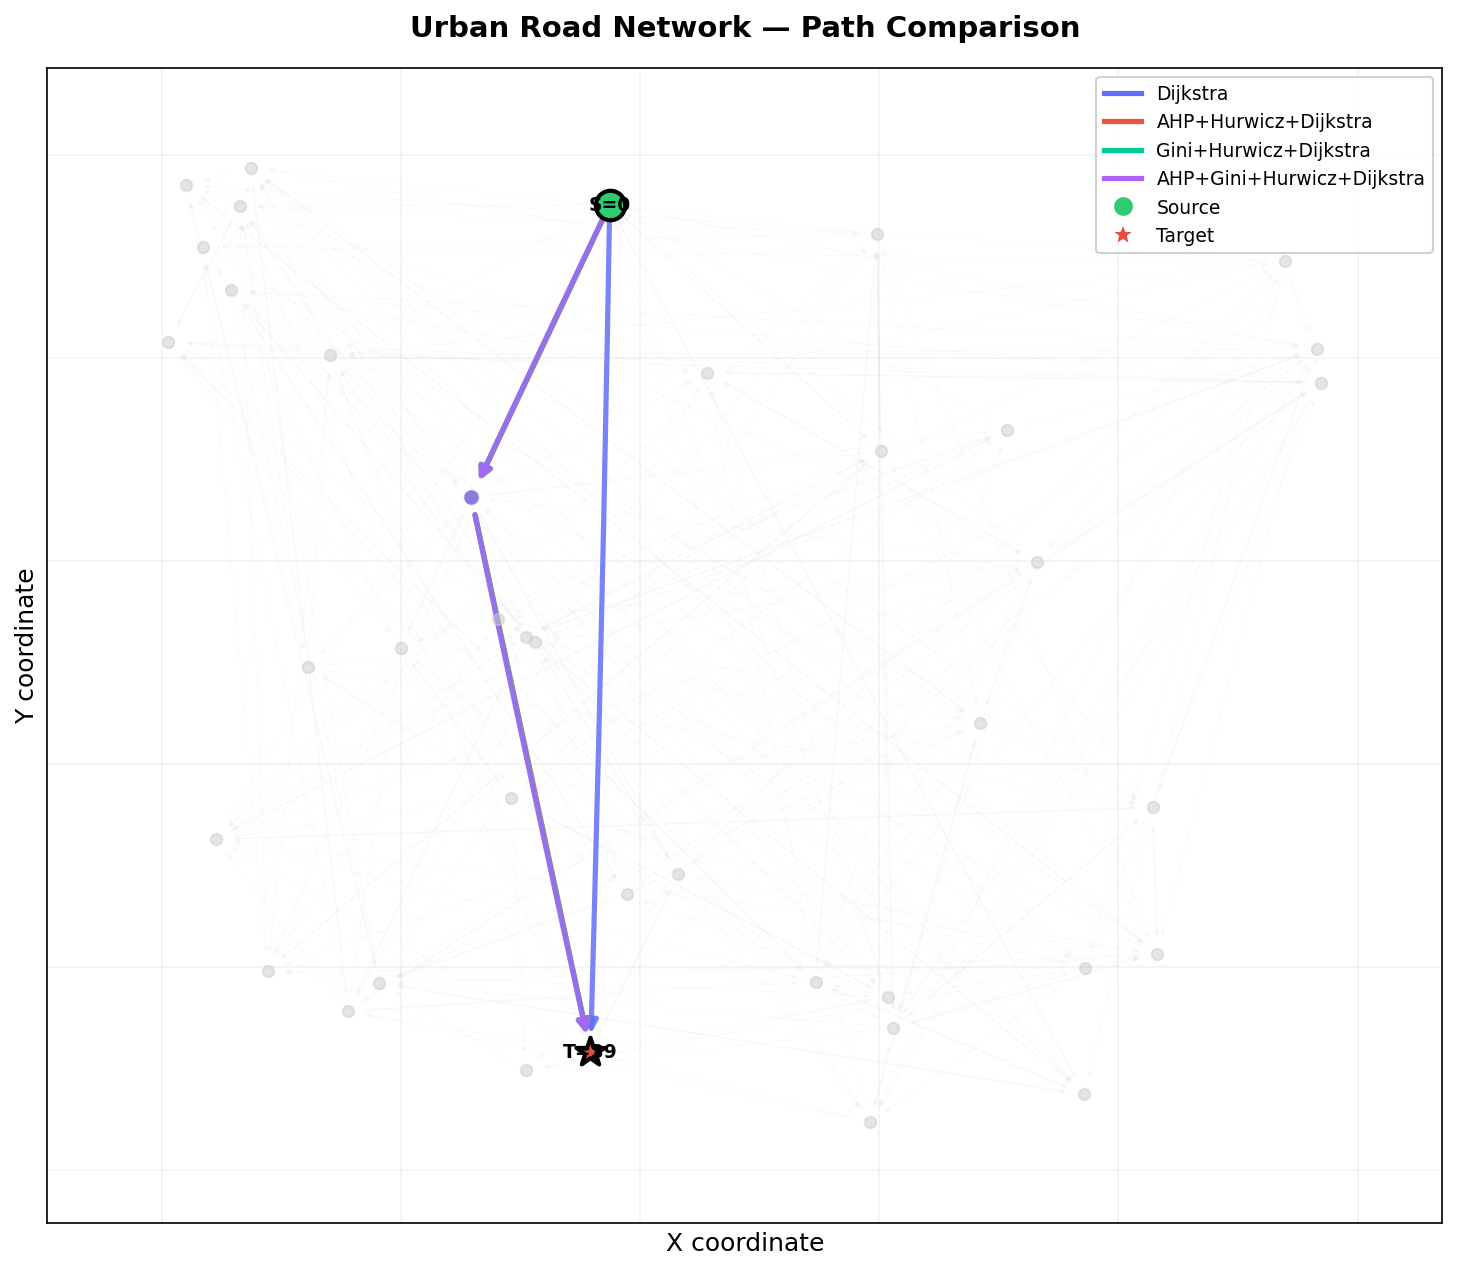
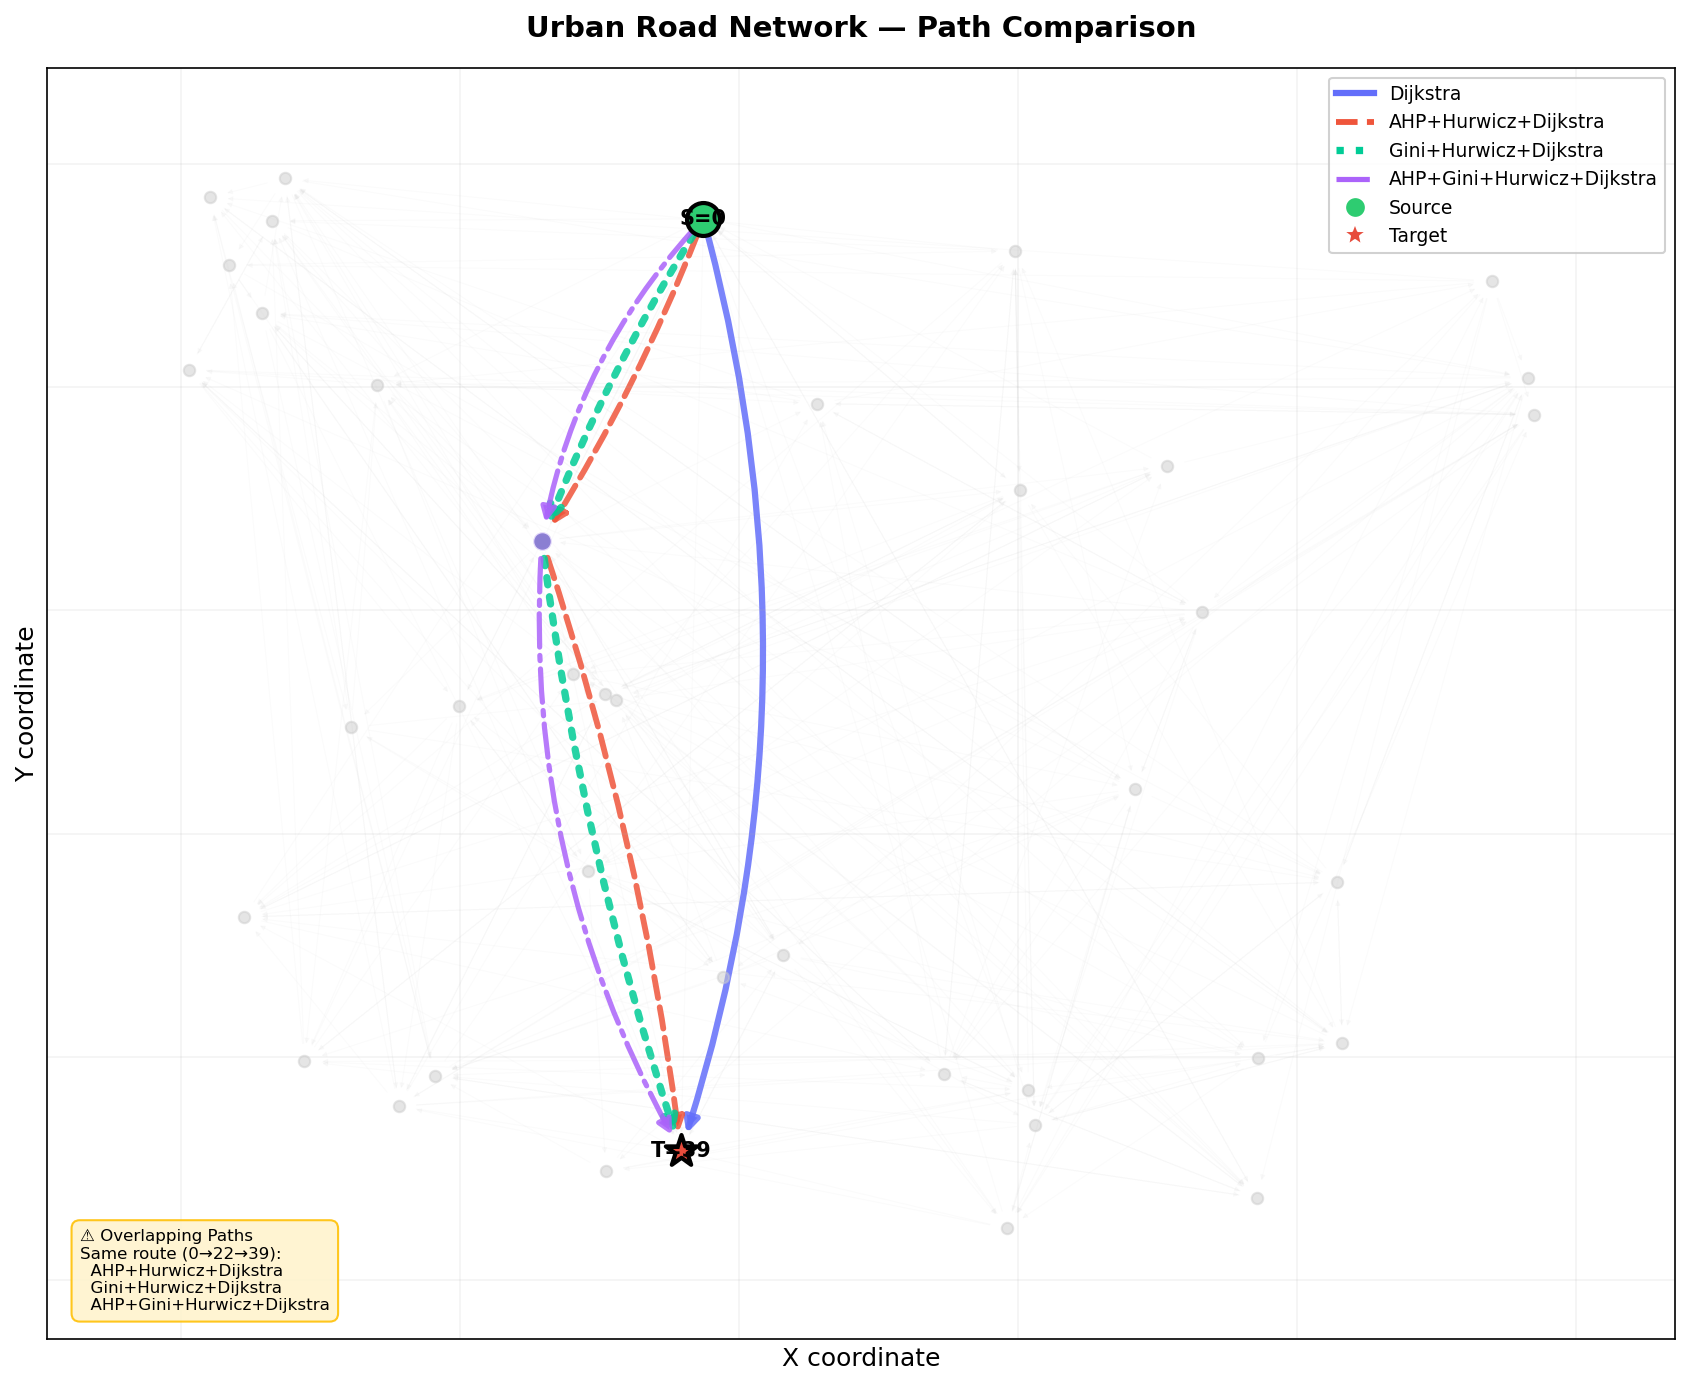
update

Changed region(s): [[0.0309, 0.0, 1.0, 1.0], [0.3089, 0.1228, 0.4633, 0.8598], [0.0, 0.4299, 0.0309, 0.5835]]

diff --git a/visualizations.py b/visualizations.py
@@ -69,9 +69,11 @@ def plot_graph_with_paths(
 ):
     """
     Plot the graph topology with multiple paths highlighted.
+    Uses large arc offsets, different line styles, and an overlap annotation
+    so ALL paths are always visible — even when routes are identical.
     """
     ensure_output_dir()
-    fig, ax = plt.subplots(1, 1, figsize=(12, 10))
+    fig, ax = plt.subplots(1, 1, figsize=(14, 11))
 
     pos = nx.get_node_attributes(G, "pos")
 
@@ -80,53 +82,71 @@ def plot_graph_with_paths(
                            width=0.5, arrows=True, arrowsize=5)
     nx.draw_networkx_nodes(G, pos, ax=ax, node_size=30, node_color="#cccccc", alpha=0.5)
 
-    # Draw each path with a different color
-    offsets = [-0.003, -0.001, 0.001, 0.003]
+    # Large offsets + distinct line styles so overlapping paths are separated
+    arc_radii = [-0.15, -0.05, 0.05, 0.15]
+    line_styles = ["solid", "dashed", "dotted", "dashdot"]
+    line_widths = [3.0, 2.8, 3.5, 2.5]
+
+    # Detect which paths share the same route
+    path_tuples = {}
+    for name, path in paths.items():
+        key = tuple(path) if path else ()
+        path_tuples.setdefault(key, []).append(name)
+
     for idx, (name, path) in enumerate(paths.items()):
         if not path or len(path) < 2:
             continue
 
         edges = [(path[i], path[i+1]) for i in range(len(path)-1)]
         color = COLORS.get(name, "#333333")
+        rad = arc_radii[idx % len(arc_radii)]
+        ls = line_styles[idx % len(line_styles)]
+        lw = line_widths[idx % len(line_widths)]
 
-        # Draw path edges
+        # Draw path edges with distinct arc and style
         nx.draw_networkx_edges(
             G, pos, edgelist=edges, ax=ax,
-            edge_color=color, width=2.5, alpha=0.85,
-            arrows=True, arrowsize=12,
-            connectionstyle=f"arc3,rad={offsets[idx % len(offsets)]}",
+            edge_color=color, width=lw, alpha=0.85,
+            arrows=True, arrowsize=14,
+            connectionstyle=f"arc3,rad={rad}",
+            style=ls,
         )
 
-        # Draw path nodes
+        # Draw path nodes (offset slightly for visibility)
         nx.draw_networkx_nodes(
             G, pos, nodelist=path, ax=ax,
-            node_size=60, node_color=color, alpha=0.7,
-            edgecolors="white", linewidths=0.8,
+            node_size=80, node_color=color, alpha=0.65,
+            edgecolors="white", linewidths=1.0,
         )
 
     # Highlight source and target
     nx.draw_networkx_nodes(
         G, pos, nodelist=[source], ax=ax,
-        node_size=200, node_color="#2ECC71", edgecolors="black",
+        node_size=250, node_color="#2ECC71", edgecolors="black",
         linewidths=2, label="Source",
     )
     nx.draw_networkx_nodes(
         G, pos, nodelist=[target], ax=ax,
-        node_size=200, node_color="#E74C3C", edgecolors="black",
+        node_size=250, node_color="#E74C3C", edgecolors="black",
         linewidths=2, label="Target", node_shape="*",
     )
 
     # Labels for source/target
     nx.draw_networkx_labels(
         G, pos, labels={source: f"S={source}", target: f"T={target}"},
-        ax=ax, font_size=9, font_weight="bold",
+        ax=ax, font_size=10, font_weight="bold",
     )
 
-    # Legend
-    legend_elements = [
-        Line2D([0], [0], color=COLORS[name], lw=2.5, label=name)
-        for name in paths if paths[name]
-    ]
+    # Legend with matching line styles
+    legend_elements = []
+    for idx, name in enumerate(paths):
+        if paths[name]:
+            legend_elements.append(
+                Line2D([0], [0], color=COLORS[name],
+                       lw=line_widths[idx % len(line_widths)],
+                       linestyle=line_styles[idx % len(line_styles)],
+                       label=name)
+            )
     legend_elements.append(
         Line2D([0], [0], marker='o', color='w', markerfacecolor='#2ECC71',
                markersize=10, label='Source')
@@ -138,6 +158,20 @@ def plot_graph_with_paths(
 
     ax.legend(handles=legend_elements, loc="upper right", framealpha=0.9,
               fontsize=9, edgecolor="#cccccc")
+
+    # Add overlap annotation box if any paths share the same route
+    overlap_lines = []
+    for route, names in path_tuples.items():
+        if len(names) > 1 and route:
+            route_str = "→".join(str(n) for n in route)
+            overlap_lines.append(f"Same route ({route_str}):\n  " + "\n  ".join(names))
+    if overlap_lines:
+        note = "⚠ Overlapping Paths\n" + "\n".join(overlap_lines)
+        ax.text(0.02, 0.02, note, transform=ax.transAxes, fontsize=8,
+                verticalalignment="bottom",
+                bbox=dict(boxstyle="round,pad=0.5", facecolor="#FFF3CD",
+                          edgecolor="#FFC107", alpha=0.9))
+
     ax.set_title(title, fontweight="bold", pad=15)
     ax.set_xlabel("X coordinate")
     ax.set_ylabel("Y coordinate")